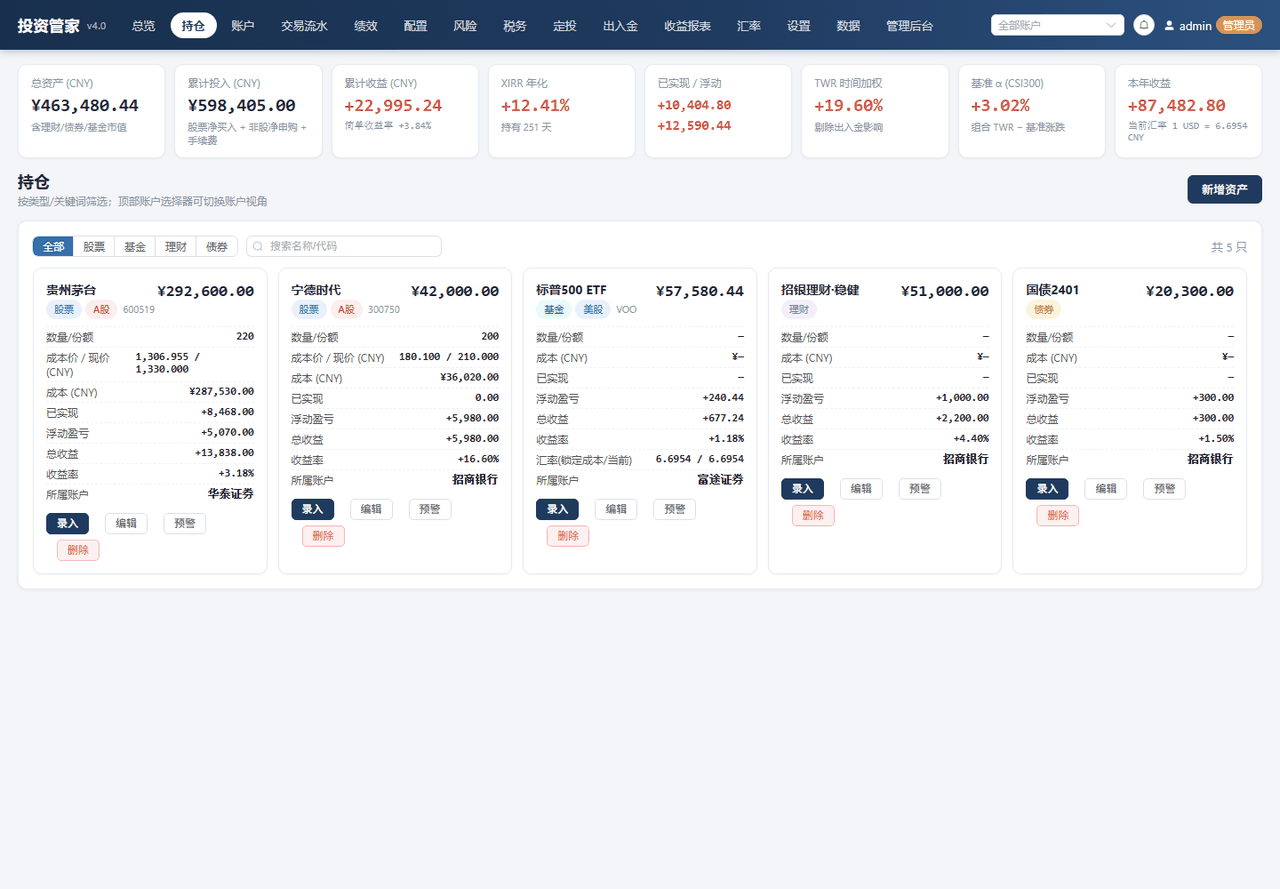
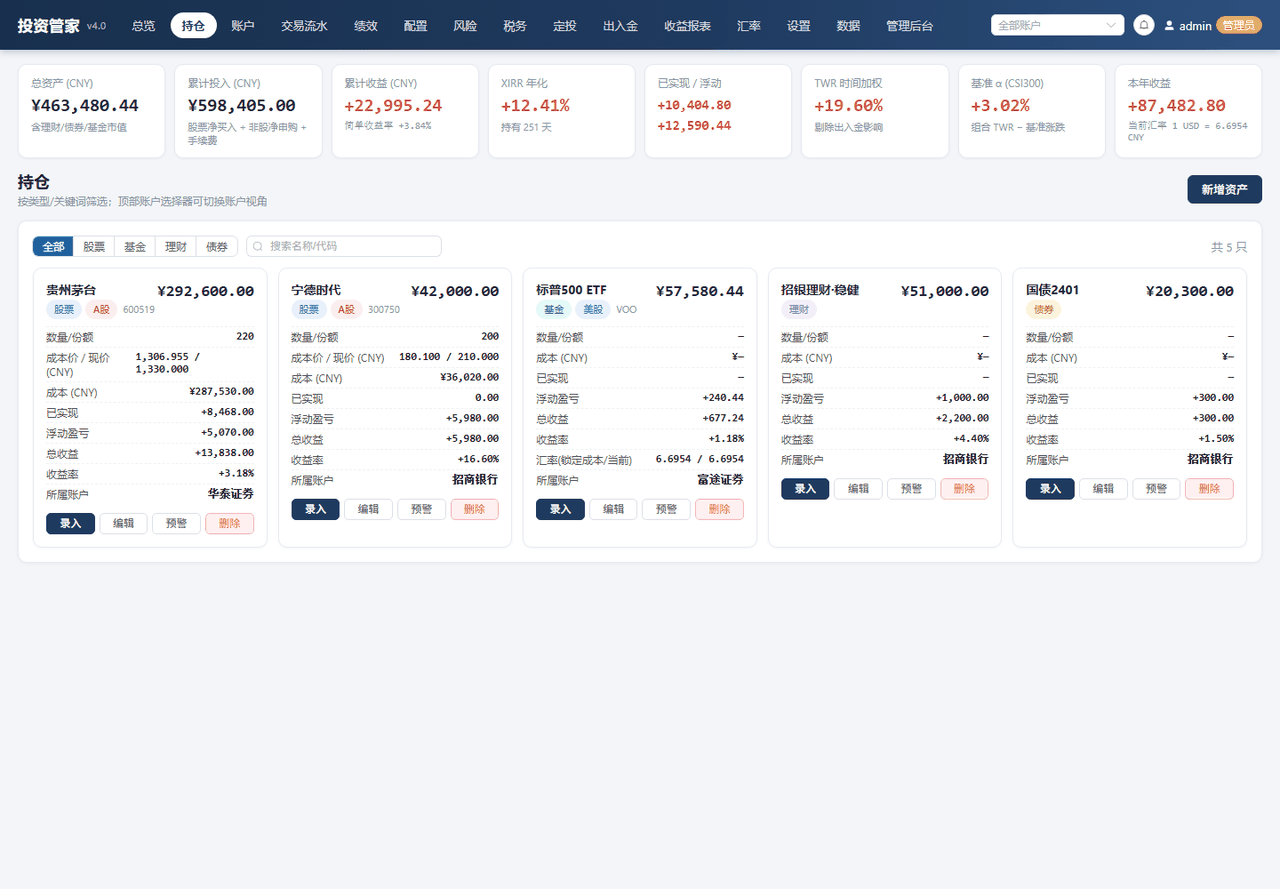
fix(ui): 持仓卡片四按钮同行、抽屉底部三按钮对齐，并重采 README 截图
持仓卡片操作区（录入/编辑/预警/删除）：
- 原为 flex-wrap: wrap，卡片约 200px 宽时「删除」被挤到第二行（桌面端即存在）
- 改为 flex-wrap: nowrap + flex:1 1 0 等分 + 压缩左右内边距，四按钮任意宽度同一行
- 移除此前移动端强制 50%/100% 宽（会变成 2 行 / 4 行）的规则

抽屉底部（系统设置/数据管理/退出登录）：
- 根因：Element Plus 给相邻 .el-button 加 margin-left:12px，叠加内联 width:100% 后
  第 2、3 个按钮被右推 12px 并溢出，造成错位
- 改为一行等分（flex:1 1 0）+ 显式 margin-left:0，并移除内联 style

验证（1440/1024/768/414/375/320px）：四按钮均同一行、等宽（55/66/83/73/60px）、无横向溢出；
抽屉三按钮 lefts=20/102/185 完全对齐、全部落在容器内。
同步重采 12 张 README 截图与 4 张受影响页面。

diff --git a/web/src/styles/index.css b/web/src/styles/index.css
@@ -168,7 +168,23 @@ body {
 .asset-card .ac-mv { font-size: 18px; font-weight: 700; text-align: right; font-family: Consolas, monospace; }
 .asset-card .ac-row { display: flex; justify-content: space-between; font-size: 12px; color: #555; padding: 3px 0; border-top: 1px dashed #eef1f5; }
 .asset-card .ac-row b { color: #222; font-family: Consolas, monospace; font-weight: 600; }
-.asset-card .ac-actions { margin-top: 10px; display: flex; gap: 6px; flex-wrap: wrap; }
+/* 持仓卡片操作区：录入 / 编辑 / 预警 / 删除 四个按钮**始终等分同一行**。
+   卡片在栅格中最窄约 240px，故不换行 + 等分宽度 + 压缩左右内边距（文字为 2 字，够放）。 */
+.asset-card .ac-actions {
+  margin-top: 10px;
+  display: flex;
+  flex-wrap: nowrap;
+  gap: 5px;
+}
+.asset-card .ac-actions .el-button {
+  flex: 1 1 0;
+  min-width: 0;
+  margin-left: 0;
+  padding-left: 2px;
+  padding-right: 2px;
+  white-space: nowrap;
+  overflow: hidden;
+}
 
 /* ---------- 徽章 ---------- */
 .badge {
@@ -379,16 +395,12 @@ body {
   .toolbar .el-radio-button { flex: 1; }
   .toolbar .el-radio-button__inner { width: 100%; }
 
-  /* 持仓看板：单列，卡片操作按钮平分整行 */
+  /* 持仓卡片：单列，操作按钮仍保持一行（等分），仅抬高触控高度 */
   .board { grid-template-columns: 1fr; gap: 10px; }
   .asset-card { padding: 12px; }
   .asset-card .ac-mv { font-size: 16px; }
-  .asset-card .ac-actions { gap: 8px; }
-  .asset-card .ac-actions .el-button {
-    flex: 1 1 calc(50% - 4px);
-    margin-left: 0;
-    min-height: 36px;
-  }
+  .asset-card .ac-actions { gap: 6px; }
+  .asset-card .ac-actions .el-button { min-height: 38px; }
   .asset-card:hover { transform: none; }
 
   /* 自定义表格：横向滚动 + 触控行高 */
@@ -464,5 +476,6 @@ body {
   .card { padding: 11px; }
   .tbl-wrap { margin: 0 -11px; padding: 0 11px; }
   .el-dialog { width: 96% !important; max-width: 96vw; }
-  .asset-card .ac-actions .el-button { flex: 1 1 100%; }
+  /* 极窄屏卡片约 330px 宽，4 个按钮等分仍有约 78px/个，无需换行 */
+  .asset-card .ac-actions { gap: 4px; }
 }

diff --git a/web/src/layout/MainLayout.vue b/web/src/layout/MainLayout.vue
@@ -111,9 +111,9 @@
         </nav>
 
         <div class="drawer-foot">
-          <el-button style="width: 100%" @click="onUserCmd('settings')">系统设置</el-button>
-          <el-button style="width: 100%" @click="onUserCmd('data')">数据管理</el-button>
-          <el-button style="width: 100%" type="danger" plain @click="onUserCmd('logout')">退出登录</el-button>
+          <el-button @click="onUserCmd('settings')">系统设置</el-button>
+          <el-button @click="onUserCmd('data')">数据管理</el-button>
+          <el-button type="danger" plain @click="onUserCmd('logout')">退出登录</el-button>
         </div>
       </div>
     </el-drawer>
@@ -237,9 +237,23 @@ async function onUserCmd(cmd) {
 }
 .drawer-nav-item:active { background: #eef2f8; }
 .drawer-nav-item.router-link-active { background: var(--navy); color: #fff; font-weight: 600; }
+/* 底部操作：三个 4 字按钮**一行等分**（放得下就不换行），尺寸与位置完全对齐。
+   注意 Element Plus 会给相邻 .el-button 加 margin-left:12px，必须显式归零，
+   否则第 2、3 个按钮会被右推并溢出（曾导致错位）。 */
 .drawer-foot {
-  display: flex; flex-direction: column; gap: 8px;
-  border-top: 1px solid var(--border); padding-top: 12px;
+  display: flex;
+  gap: 6px;
+  border-top: 1px solid var(--border);
+  padding-top: 12px;
+}
+.drawer-foot .el-button {
+  flex: 1 1 0;
+  min-width: 0;
+  margin-left: 0;
+  padding-left: 2px;
+  padding-right: 2px;
+  white-space: nowrap;
+  overflow: hidden;
 }
 
 /* ============================================================
